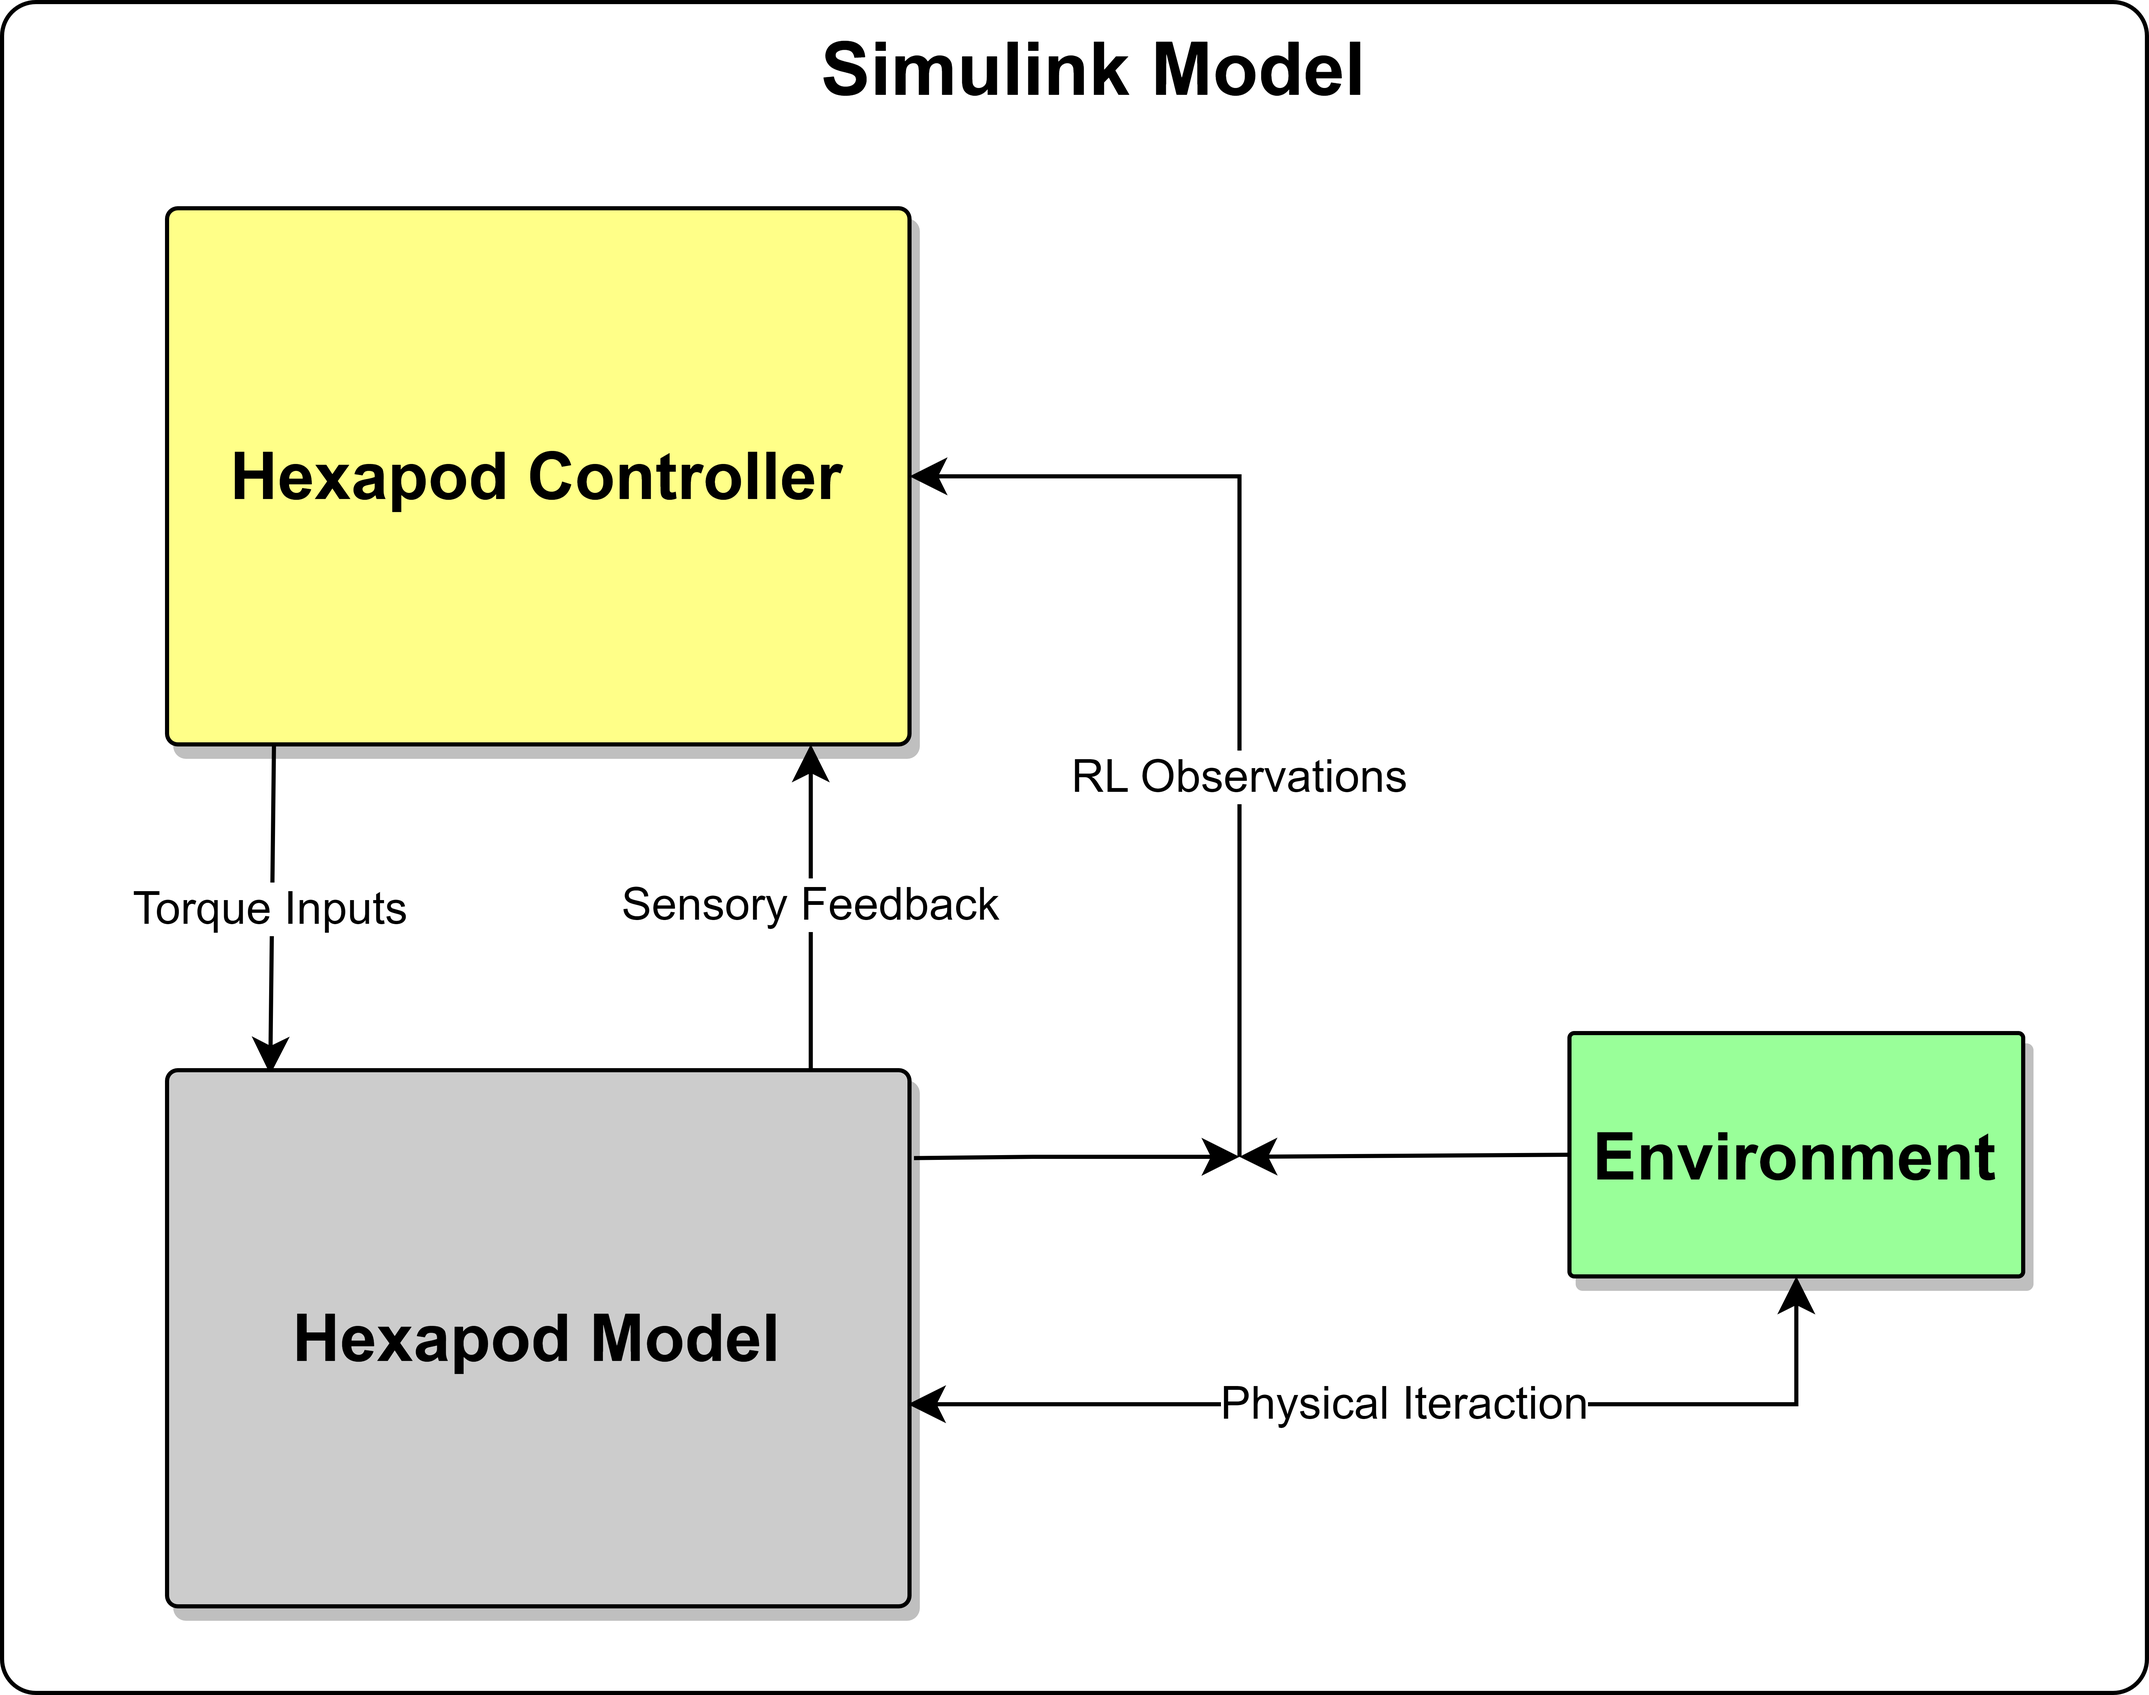
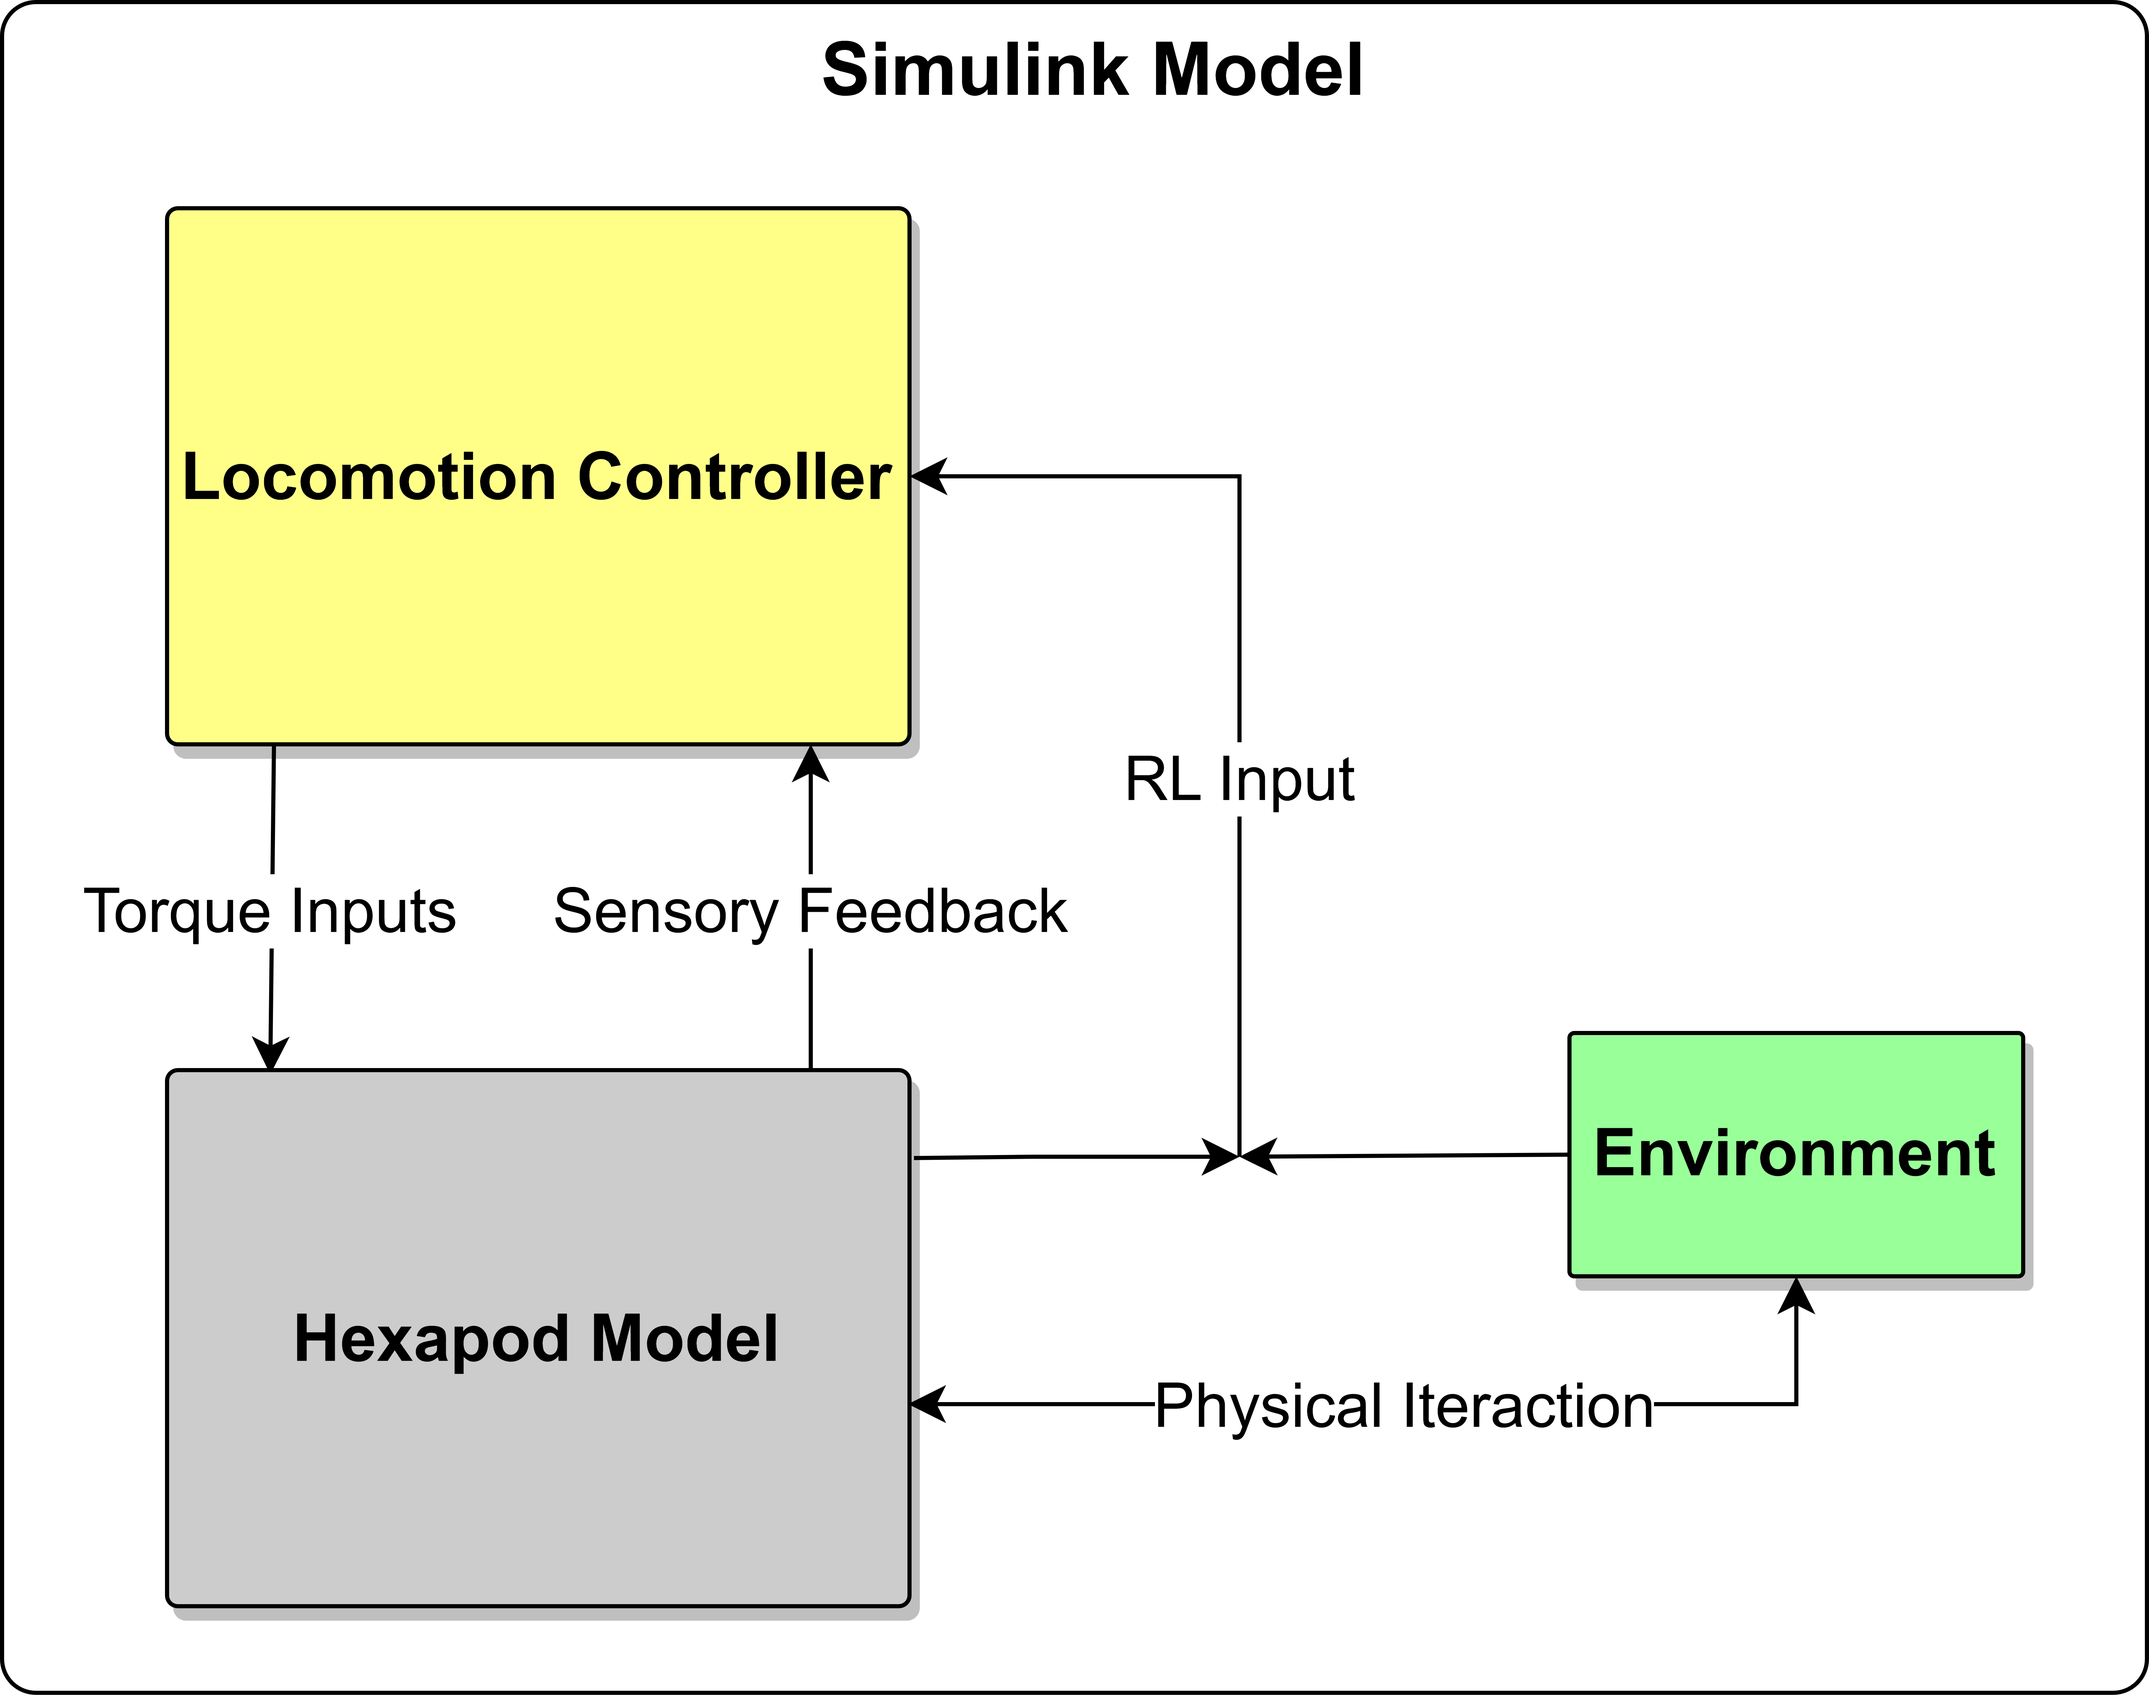
Changed font size in figure; othersmall changes

diff --git a/documents/chapter/methods.tex b/documents/chapter/methods.tex
@@ -2,7 +2,6 @@
 \chapter{Methods}
 \label{ch:methods}
 
-\todo{Use model project overview graphic (?)}
 \section{Approach}	
 In this chapter, we detail the methodology used to address the objectives we defined in the introduction.
 We initially provide a quick overview of the complete Simulink model, followed by more elaborate explanations of the individual components.
@@ -13,22 +12,22 @@ The chapter concludes with an exploration of the RL setup we developed to train 
 \section{Simulink Model}
 
 \begin{figure}[h]
-	\centerline{\includegraphics[scale=0.045]{HexapodModel_Overview}}
-	\caption[]{Simulink model vverview}
+	\centerline{\includegraphics[scale=0.04]{HexapodModel_Overview}}
+	\caption[]{Overview of the complete Simulink model}
 	\label{figure: Simulink Model Overview}
 \end{figure}
 
 Taking a top-down perspective on the Simulink model as depicted in Fig. \ref{figure: Simulink Model Overview}, it is distinctly divided into 3 separate components: The hexapod, the locomotion controller and the environment.
 The hexapod represents a virtual model of a real hexapod robot and together with the controller constitutes a feedback loop.
 Providing sensory information about its state to the controller, the hexapod receives instructions on the torque values to be applied in return.
-The environment represents a virtual testing ground in which the hexapod is situated.
+The environment represents a virtual testing ground in which the robot is situated.
 Between the two components physical interactions are simulated.
-Additionally, if a RL agent is supposed to be trained, both the hexapod and the environment provide so called RL observations to the controller, which RL agent setup is a part of.
+Additionally, if a RL agent is supposed to be trained, both the hexapod and the environment provide information about the RL process to the controller, which the RL agent setup is a part of.
 
 
 \subsection{The Hexapod}
 The hexapod model we develop in this thesis is based on the \textit{PhantomX MK4} hexapod distributed by \textit{Trossen Robotics}.
-The company provides a digital model of this robot in the form of a .urdf file which can be obtained from their Github page \parencite{interboticsGithub}.
+The company provides a digital model of this robot in the form of a .urdf file, obtainable through their Github page \parencite{interboticsGithub}.
 URDF (\textbf{U}nified \textbf{R}obotics \textbf{D}escription \textbf{F}ormat) is a common file format for describing the physical and kinematic properties of a robot or robotic component.
 It provides a standardized and structured way to define the connections between joints and links, the visual properties and collision geometry of each link as well as parameters such as mass and inertia \parencite{matlabURDFDocumentation}.
 The robots geometry is provided in a separate folder in the form of CAD-files which are referenced by the urdf-file.

diff --git a/documents/chapter/background.tex b/documents/chapter/background.tex
@@ -11,17 +11,17 @@
 		\centering
 		% include first image
 		\includegraphics[width=\linewidth]{phantomX_III_overview}  % this sets the image to fill 90% of the available space -> 45% of the line width in total. 
-		\caption{}
+		\caption[PhantomX MKIII hexapod]{}
 		\label{figure: PhantomX MKIII}
 	\end{subfigure}
 	\begin{subfigure}{.5\textwidth}
 		\centering
 		% include second image
 		\includegraphics[width=0.85\linewidth]{HexapodLeg.png}  
-		\caption{}
+		\caption[Sketch of a hexapod leg]{}
 		\label{figure: Hexapod Leg Sketch}
 	\end{subfigure}
-	\caption[Hexapod and hexapod leg]{(a) Trossen Robotics PhantomX MKIII hexapod, predecessor of the MKIV version used in this thesis [\cite{PhantomX_MKIII}] (b) Drawing of a 3-segment, 3-joint hexapod leg.}
+	\caption[]{(a) Trossen Robotics PhantomX MKIII hexapod, predecessor of the MKIV version used in this thesis [\cite{PhantomX_MKIII}]. (b) Drawing of a 3-segment, 3-joint hexapod leg.}
 	\label{figure: Hexapod and hexapod leg}
 \end{figure}
 
@@ -30,7 +30,7 @@ Through millions of years of evolution these organisms developed efficient locom
 By emulating the biomechanics and behaviour of insects, researchers and engineers are able to create versatile and robust robotic systems capable of navigating challenging terrain \parencite{irawan2011optimal, ouyang2021adaptive, schilling2013walknet}.
 
 Most commonly, each leg of a hexapod consists of 3 segments named coxa, femur and tibia, equivalent to their biological counterparts.
-The individual segments are connected to each other and the thorax (main body) by three 1-DoF\footnote{DoF: \textbf{D}egrees \textbf{o}f \textbf{F}reedom} joints, each actuated by an electric servo motor.\todo{Use footnotes for abreviations}
+The individual segments are connected to each other and the thorax (main body) by three 1-DoF\footnote{DoF: \textbf{D}egrees \textbf{o}f \textbf{F}reedom} joints, each actuated by an electric servo motor.
 The first joint, hereafter named \textalpha-joint, connects the coxa to the thorax and moves in parallel to the ground, being responsible for the longitudinal placement of the leg.
 Coxa and femur are connected by the \textbeta-joint, while the femur and tibia are connected by the \textgamma-joint. 
 These joints move orthogonal to the movement plane of the \textalpha-joint. Together, they are responsible for the lateral positioning of the leg.

diff --git a/documents/preamble.tex b/documents/preamble.tex
@@ -51,9 +51,9 @@ final
 \captionsetup{%
 	figurename=Figure,
 	tablename=Table.,
-	justification=centerlast,
+	justification=justified,
 	singlelinecheck=false,
-	format=hang,
+	format=plain,
 	font=footnotesize,
 	labelfont=bf
 }
